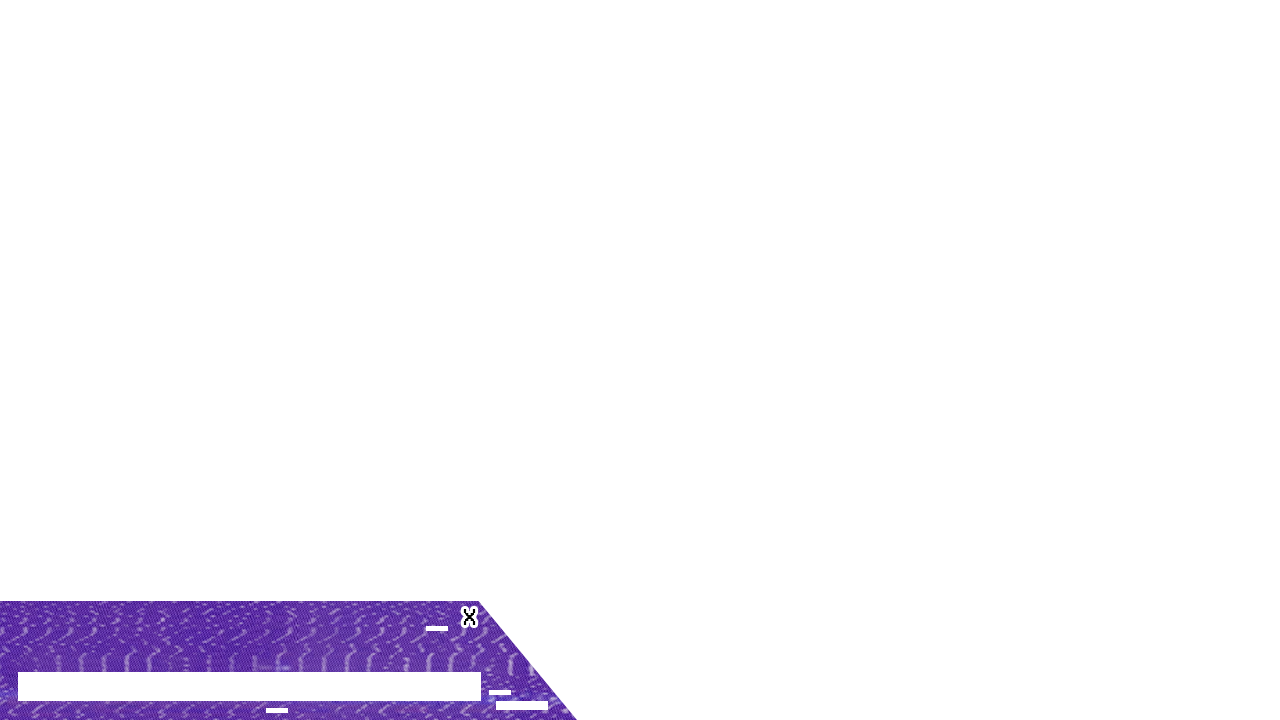
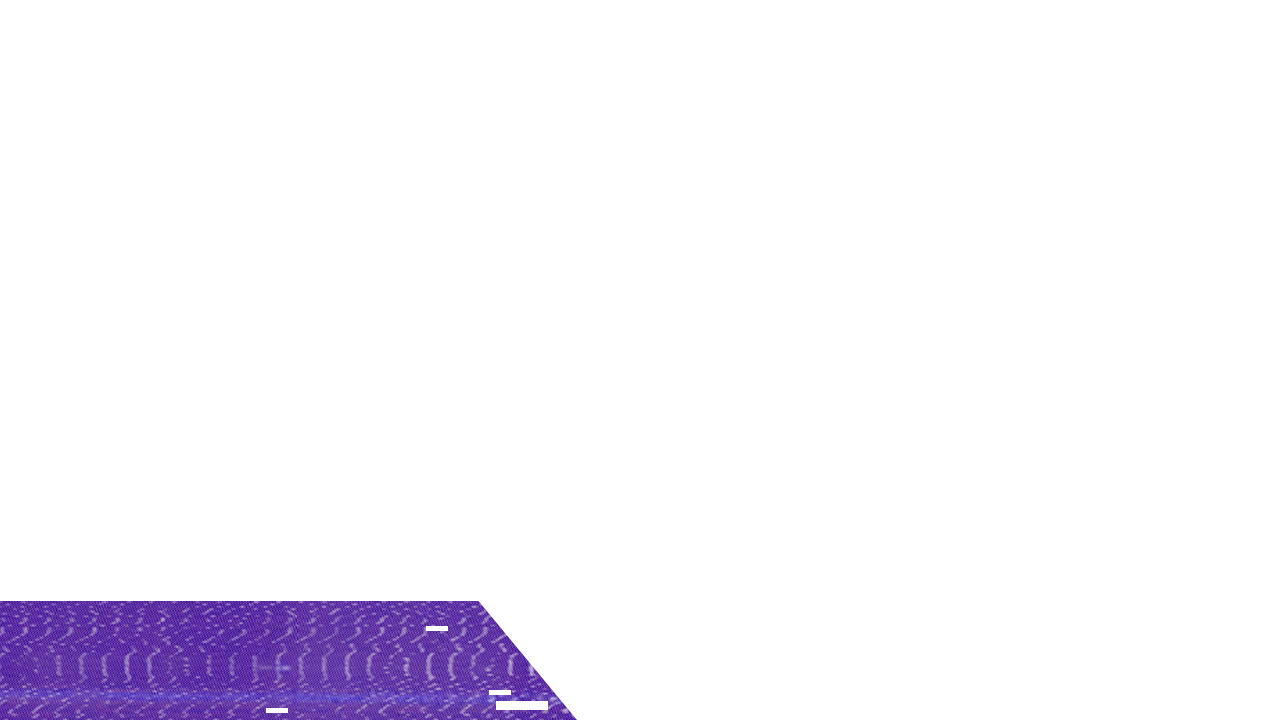
Working gauges

Changed region(s): [[0.0, 0.9167, 0.375, 0.9778], [0.3438, 0.825, 0.375, 0.8861]]

diff --git a/Source/UI/CharacterInfoPopup.cpp b/Source/UI/CharacterInfoPopup.cpp
@@ -16,9 +16,7 @@ CharacterInfoPopup::CharacterInfoPopup(ASGE::Renderer* rend) : UI(Point(0, 0), r
   close_button->click_function = [active_p] { *active_p = false; };
 
   // Make progress bar
-  progress_bar = new ProgressBar(Point(18, 762), rend, 463, 29);
-  progress_bar->addBackgroundSprite("data/UI/default.png");
-  progress_bar->addFillSprite("data/UI/default.png");
+  progress_bar = new HudGaugeData(Point(18, 672), rend);
 }
 
 CharacterInfoPopup::~CharacterInfoPopup()
@@ -37,19 +35,15 @@ void CharacterInfoPopup::render(double delta_time)
 {
   if (active)
   {
-    renderer->renderSprite(background_sprite->returnNextSprite(delta_time));
+    renderer->renderSprite(background_sprite->returnNextSprite(delta_time),
+                           render_index::UI_TOP_LAYER_BASE);
     close_button->render(delta_time);
-    progress_bar->render(delta_time);
+    progress_bar->render(renderer, delta_time);
     renderer->renderText(character_name,
                          static_cast<int>(21 * ScaledSpriteArray::width_scale),
-                         static_cast<int>(653 * ScaledSpriteArray::width_scale),
+                         static_cast<int>(657 * ScaledSpriteArray::width_scale),
                          1,
                          ASGE::COLOURS::WHITE);
-    renderer->renderText(gauge_name,
-                         static_cast<int>(29 * ScaledSpriteArray::width_scale),
-                         static_cast<int>(694 * ScaledSpriteArray::width_scale),
-                         0.5,
-                         ASGE::COLOURS::BLACK);
   }
 }
 
@@ -60,11 +54,11 @@ void CharacterInfoPopup::setCharacterName(const std::string& char_name)
 }
 void CharacterInfoPopup::setGaugeDescription(const std::string& gauge_desc)
 {
-  gauge_name = gauge_desc;
+  progress_bar->gauge_name = gauge_desc;
 }
 void CharacterInfoPopup::setGaugeAmount(float gauge_amount)
 {
-  gauge_value = gauge_amount;
+  progress_bar->progress_bar->setProgress(gauge_amount / 100);
 }
 
 /* Returns a pointer to the button that was clicked (nullptr if none) */

diff --git a/Source/UI/HudGaugeData.h b/Source/UI/HudGaugeData.h
@@ -1,0 +1,43 @@
+#ifndef PLANNEDOBSOLESCENCE_HUDDATA_H
+#define PLANNEDOBSOLESCENCE_HUDDATA_H
+
+#include "ProgressBar.h"
+
+struct HudGaugeData
+{
+  HudGaugeData(Point location, ASGE::Renderer* renderer, std::string name = "", float value = 0)
+  {
+    progress_bar = new ProgressBar(location, renderer, 464, 29);
+    progress_bar->addBackgroundSprite("data/UI/WHITE.png");
+    progress_bar->addFillSprite("data/UI/LIGHT_PURPLE.png");
+
+    gauge_location = location;
+    text_location = Point((gauge_location.x_pos + 11) * ScaledSpriteArray::width_scale,
+                          (gauge_location.y_pos + 22) * ScaledSpriteArray::width_scale);
+
+    gauge_name = name;
+    gauge_value = value;
+  }
+
+  void render(ASGE::Renderer* renderer, double delta_time)
+  {
+    progress_bar->render(delta_time);
+    renderer->renderText(gauge_name,
+                         static_cast<int>(text_location.x_pos),
+                         static_cast<int>(text_location.y_pos),
+                         0.5,
+                         ASGE::COLOURS::BLACK);
+  }
+
+  void update(float value) { gauge_value = value; }
+
+  ProgressBar* progress_bar = nullptr;
+  std::string gauge_name = "";
+  float gauge_value = 0.0f;
+
+ private:
+  Point gauge_location;
+  Point text_location;
+};
+
+#endif // PLANNEDOBSOLESCENCE_HUDDATA_H

diff --git a/Source/UI/MainHUD.cpp b/Source/UI/MainHUD.cpp
@@ -1,0 +1,35 @@
+#include "MainHUD.h"
+
+MainHUD::MainHUD(ASGE::Renderer* rend) : UI(Point(0, 0), rend)
+{
+  // Make background sprite
+  background_sprite = createSprite("data/UI/IN_GAME_UI/BOTTOM_RIGHT_BG.png");
+
+  // Make gauges
+  hud_gauges.reserve(3);
+  hud_gauges.push_back(HudGaugeData(Point(805, 603), rend, "YOUR DETECTION", 50));
+  hud_gauges.push_back(HudGaugeData(Point(805, 640), rend, "PROJECT PROGRESS", 40));
+  hud_gauges.push_back(HudGaugeData(Point(805, 677), rend, "TIME REMAINING", 30));
+}
+
+MainHUD::~MainHUD()
+{
+  delete background_sprite;
+  background_sprite = nullptr;
+}
+
+void MainHUD::render(double delta_time)
+{
+  renderer->renderSprite(background_sprite->returnNextSprite(delta_time),
+                         render_index::UI_TOP_LAYER_BASE);
+  for (HudGaugeData& this_gauge : hud_gauges)
+  {
+    this_gauge.render(renderer, delta_time);
+  }
+}
+
+/* Set values of gauges */
+void MainHUD::adjustGauge(hud_gauge_types bar, float gauge_amount)
+{
+  hud_gauges[bar].progress_bar->setProgress(gauge_amount / 100);
+}

diff --git a/Source/Managers/UIManager.cpp b/Source/Managers/UIManager.cpp
@@ -23,6 +23,9 @@ UIManager::~UIManager()
     delete generic_ui;
     generic_ui = nullptr;
   }
+  delete main_hud_element;
+  main_hud_element = nullptr;
+
   delete char_info_popup;
   char_info_popup = nullptr;
 }
@@ -49,6 +52,12 @@ void UIManager::addTextBox(TextBox* new_textbox)
 void UIManager::addProgressBar(ProgressBar* new_progressbar)
 {
   progress_bars.push_back(new_progressbar);
+}
+
+/* Create main hud data element (we only have one of these) */
+void UIManager::createMainHUD()
+{
+  main_hud_element = new MainHUD(renderer);
 }
 
 /* Initialise the character popup */
@@ -89,9 +98,16 @@ void UIManager::render(double delta_time)
     generic_ui->render(delta_time);
   }
 
-  if (char_info_popup->isActive())
+  if (char_info_popup != nullptr)
   {
-    char_info_popup->render(delta_time);
+    if (char_info_popup->isActive())
+    {
+      char_info_popup->render(delta_time);
+    }
+  }
+  if (main_hud_element != nullptr)
+  {
+    main_hud_element->render(delta_time);
   }
 }
 

diff --git a/Source/Managers/UIManager.h b/Source/Managers/UIManager.h
@@ -4,6 +4,7 @@
 #include "../Characters/Boss.h"
 #include "../UI/CharacterInfoPopup.h"
 #include "../UI/GenericUI.h"
+#include "../UI/MainHUD.h"
 #include "../UI/PopupWindow.h"
 #include "../Viewport/Camera.h"
 
@@ -21,6 +22,7 @@ class UIManager
   void addTextBox(TextBox* new_textbox);
   void addProgressBar(ProgressBar* new_progressbar);
 
+  void createMainHUD();
   void initCharacterPopup();
 
   void updateAndShowCharacterInfo(const std::string& character_type,
@@ -40,6 +42,7 @@ class UIManager
   std::vector<TextBox*> text_boxes;
   std::vector<ProgressBar*> progress_bars;
   std::vector<GenericUI*> generic_spriteset;
+  MainHUD* main_hud_element = nullptr;
 
   CharacterInfoPopup* char_info_popup = nullptr;
 

diff --git a/Source/Scenes/GameCore.cpp b/Source/Scenes/GameCore.cpp
@@ -30,14 +30,7 @@ bool GameCore::load(ASGE::Renderer* renderer, ASGE::Input* input)
   ui_manager.setCamera(&camera);
   character_manager.setUIManager(&ui_manager);
 
-  GenericUI* ui_main =
-    new GenericUI(renderer, "IN_GAME_UI/BOTTOM_RIGHT_BG.png", "IN_GAME_UI/BOTTOM_RIGHT_TEXT.png");
-  ui_manager.addGenericUI(ui_main);
-  /*
-    GenericUI* ui_bottom =
-      new GenericUI(renderer, "IN_GAME_UI/BOTTOM_LEFT_BG.png", "IN_GAME_UI/BOTTOM_LEFT_TEXT.png");
-    ui_manager.addGenericUI(ui_bottom);
-    */
+  ui_manager.createMainHUD();
 
   Button* quit_button = new Button(Point(SCREEN_WIDTH - 148, 0),
                                    renderer,

diff --git a/Source/UI/MainHUD.h b/Source/UI/MainHUD.h
@@ -1,0 +1,27 @@
+#ifndef PLANNEDOBSOLESCENCE_MAINHUD_H
+#define PLANNEDOBSOLESCENCE_MAINHUD_H
+
+#include "Button.h"
+#include "HudGaugeData.h"
+#include "ProgressBar.h"
+#include "UI.h"
+
+class MainHUD : public UI
+{
+ public:
+  explicit MainHUD(ASGE::Renderer* rend);
+  ~MainHUD() override;
+
+  MainHUD(const MainHUD&) = delete;
+  MainHUD& operator=(const MainHUD&) = delete;
+
+  void render(double delta_time) override;
+
+  void adjustGauge(hud_gauge_types bar, float gauge_amount);
+
+ private:
+  ScaledSpriteArray* background_sprite = nullptr;
+  std::vector<HudGaugeData> hud_gauges;
+};
+
+#endif // PLANNEDOBSOLESCENCE_MAINHUD_H

diff --git a/Source/UI/CharacterInfoPopup.h b/Source/UI/CharacterInfoPopup.h
@@ -2,6 +2,7 @@
 #define PLANNEDOBSOLESCENCE_CHARACTERINFOPOPUP_H
 
 #include "Button.h"
+#include "HudGaugeData.h"
 #include "ProgressBar.h"
 #include "UI.h"
 
@@ -29,11 +30,9 @@ class CharacterInfoPopup : public UI
 
   ScaledSpriteArray* background_sprite = nullptr;
   Button* close_button = nullptr;
-  ProgressBar* progress_bar = nullptr;
+  HudGaugeData* progress_bar = nullptr;
 
   std::string character_name = "";
-  std::string gauge_name = "";
-  float gauge_value = 0.0f;
 };
 
 #endif // PLANNEDOBSOLESCENCE_CHARACTERINFOPOPUP_H

diff --git a/Source/Constants.h b/Source/Constants.h
@@ -91,6 +91,13 @@ enum render_index
   UI_TOP_LAYER_CAP
 };
 
+enum hud_gauge_types
+{
+  YOUR_DETECTION,
+  PROJECT_PROGRESS,
+  TIME_REMAINING
+};
+
 // Our native resolution which we will scale from to the resolution specified in the game config.
 const float SCREEN_WIDTH = 1280;
 const float SCREEN_HEIGHT = 720;

diff --git a/Source/UI/ProgressBar.h b/Source/UI/ProgressBar.h
@@ -24,7 +24,7 @@ class ProgressBar : public UI
   void addBackgroundSprite(const std::string& sprite_texture_path);
   void addFillSprite(const std::string& sprite_texture_path);
 
-  void addProgress(float delta);
+  void setProgress(float new_progress);
   float getProgress() { return bar_progress; };
 
  private:

diff --git a/Source/UI/ProgressBar.cpp b/Source/UI/ProgressBar.cpp
@@ -75,9 +75,9 @@ void ProgressBar::addFillSprite(const std::string& sprite_texture_path)
   }
 }
 
-void ProgressBar::addProgress(float delta)
+void ProgressBar::setProgress(float new_progress)
 {
-  bar_progress += delta;
+  bar_progress = new_progress;
   if (bar_progress > 1)
   {
     bar_progress = 1;

diff --git a/Source/Scenes/GameCore.h b/Source/Scenes/GameCore.h
@@ -5,6 +5,7 @@
 #include "../Map/GameMap.h"
 #include "../Sprites/ScaledSpriteArray.h"
 #include "../UI/Button.h"
+#include "../UI/MainHUD.h"
 #include "../UI/ProgressBar.h"
 #include "../UI/TextBox.h"
 #include "../Viewport/Camera.h"
